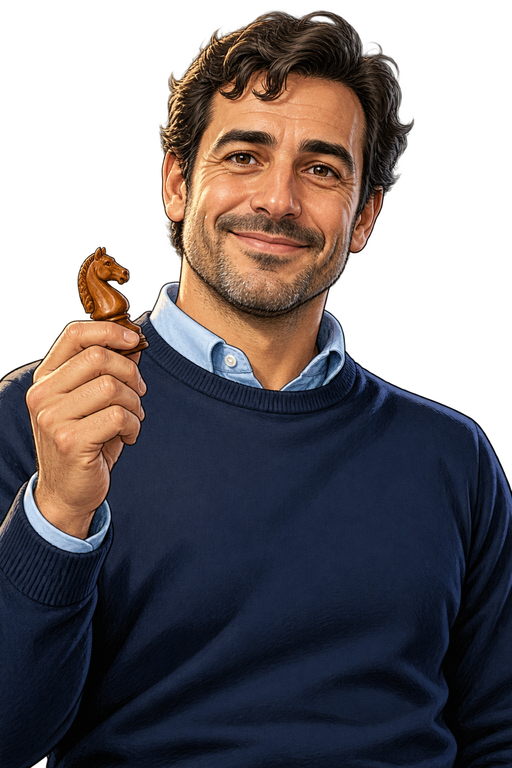
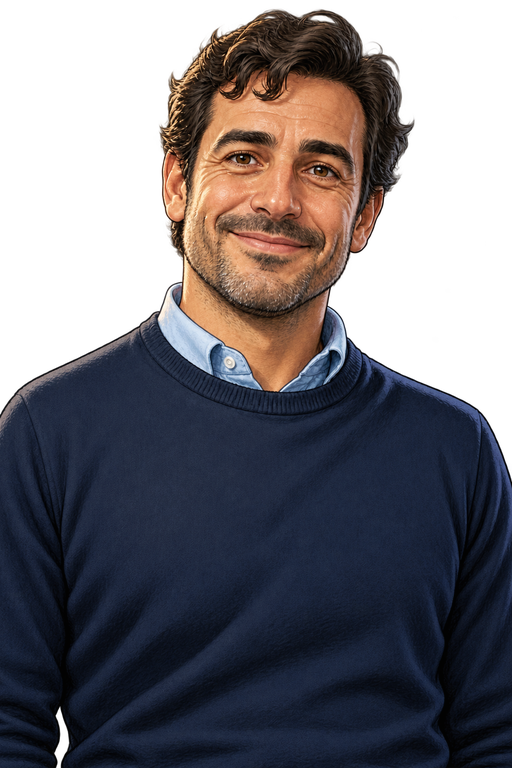
chore(brand): coach portrait with no raised hand, drop a stale comment

diff --git a/apps/web/src/components/BotAvatar.css b/apps/web/src/components/BotAvatar.css
@@ -1,6 +1,6 @@
-/* The source image is a 6-column by 5-row uniform portrait grid, so (unlike
- * coaches.png) every crop uses the same background-size and a
- * mechanically-computed position — see BotAvatar.tsx. */
+/* The source image is a 6-column by 5-row uniform portrait grid, so every
+ * crop uses the same background-size and a mechanically-computed position,
+ * see BotAvatar.tsx. */
 .bot-avatar-image {
   display: inline-block;
   flex: none;
